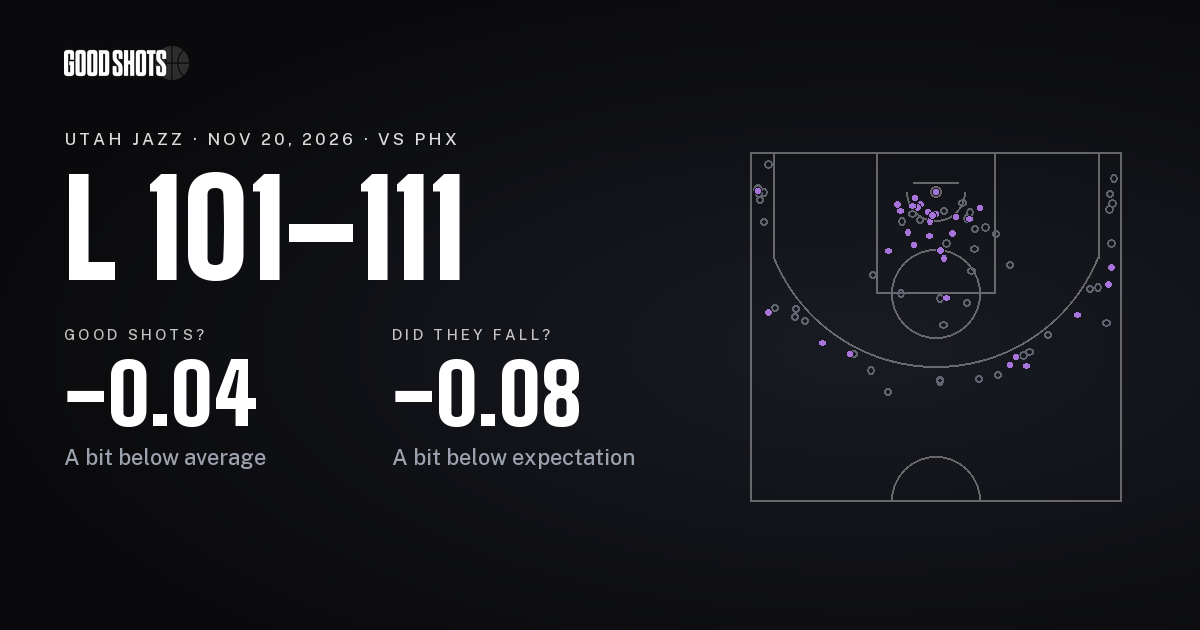
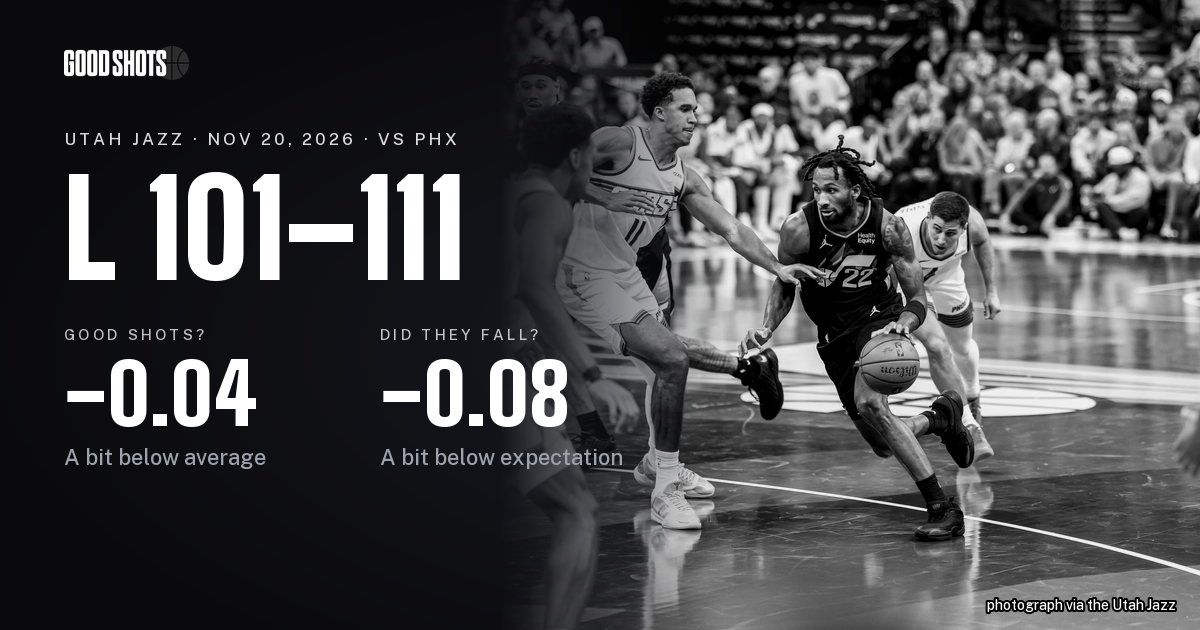
Give the Phoenix report card its game photograph
Darryn Peterson driving with the ball low as a Suns defender reaches
across him, the header of the Jazz's 11-20 recap (DSC02080), credited
"photograph via the Utah Jazz" from an empty record. The game is
verified by the venue and the player: the frame is on the Jazz's purple
home floor, 11-20 is the Suns' only regular-season visit so far, and the
Jazz's one Suns preseason game was at Phoenix on 10-16. Peterson is a
2026-27 rookie with the HealthEquity patch of this season's frames, so
no earlier season's Suns game fits. The camera counter agrees, following
the 11-18 photograph's DSC01358. No game clock is in frame, so no shot
is matched. Focal points checked at the 375px poster (44% keeps the
defender's reaching arm in frame) and the 1440px wide panel; the share
card redrawn with the photograph.

diff --git a/src/teams/gamePhotos.ts b/src/teams/gamePhotos.ts
@@ -144,6 +144,13 @@ export const GAME_PHOTOS: Readonly<Record<string, GamePhoto>> = {
     imagePosition: '40% 40%',
     imagePositionWide: '50% 30%',
   },
+  '2026-11-20-phx': {
+    imagePath: 'img/games/2026-11-20-phx.jpg',
+    imageAlt: 'Darryn Peterson drives with the ball low as a Phoenix defender reaches across him, in the black Jazz number 22 jersey',
+    imageCredit: 'photograph via the Utah Jazz',
+    imagePosition: '44% 40%',
+    imagePositionWide: '50% 30%',
+  },
 }
 
 export function gamePhotoOf(slug: string): GamePhoto | undefined {

diff --git a/docs/image-credits.md b/docs/image-credits.md
@@ -534,3 +534,28 @@ it is credited "photograph via the Utah Jazz".
   Orlando, 2026-02-07, above). The counter agrees, following the 11-17
   photograph's `DSC00328`. The game clock at the right edge is cut off,
   so the frame gives no time to match to a shot.
+
+The photo finder listed one team frame for 11-20 after the 06:30 session
+of 2026-11-21; the night's other frame, `.../2026/11/2305929204.jpg`,
+names Getty on its record and is not a candidate. Pulled 2026-11-21 by
+`game:photo` and retained in `data/game-sources/2026-11-20-phx.jpg`; the
+record carries an empty credit and the file no embedded metadata, so it
+is credited "photograph via the Utah Jazz".
+
+- `public/img/games/2026-11-20-phx.jpg`, Darryn Peterson (22, black)
+  driving with the ball low as a Suns defender in white (11) reaches
+  across him, a second Suns player (0) in the foreground with his back to
+  the camera, a third trailing the play behind Peterson, and Brice
+  Sensabaugh (28) out of focus at the right edge with his back to the
+  camera: the header of the Jazz's 11-20 recap, posted 11-21 05:35 UTC,
+  `cdn.nba.com/teams/uploads/sites/1610612762/2026/11/DSC02080.jpg`
+  (7447x4965). **The game is verified by the venue and the player**: the
+  frame is on the Jazz's purple home floor, 11-20 is the Suns' only
+  regular-season visit so far, and the Jazz's one Suns preseason game was
+  at Phoenix (10-16, Mortgage Matchup Center, per the Fox Sports and SI
+  box scores; the four-game preseason was Denver home and away, San
+  Antonio at home, Phoenix away). Peterson is a 2026-27 rookie, in no
+  2025-26 Jazz game, so no earlier season's Suns game fits, and his
+  jersey carries the HealthEquity patch of the 2026-27 frames. The
+  counter agrees, following the 11-18 photograph's `DSC01358`. No game
+  clock is in frame, so no shot is matched.
